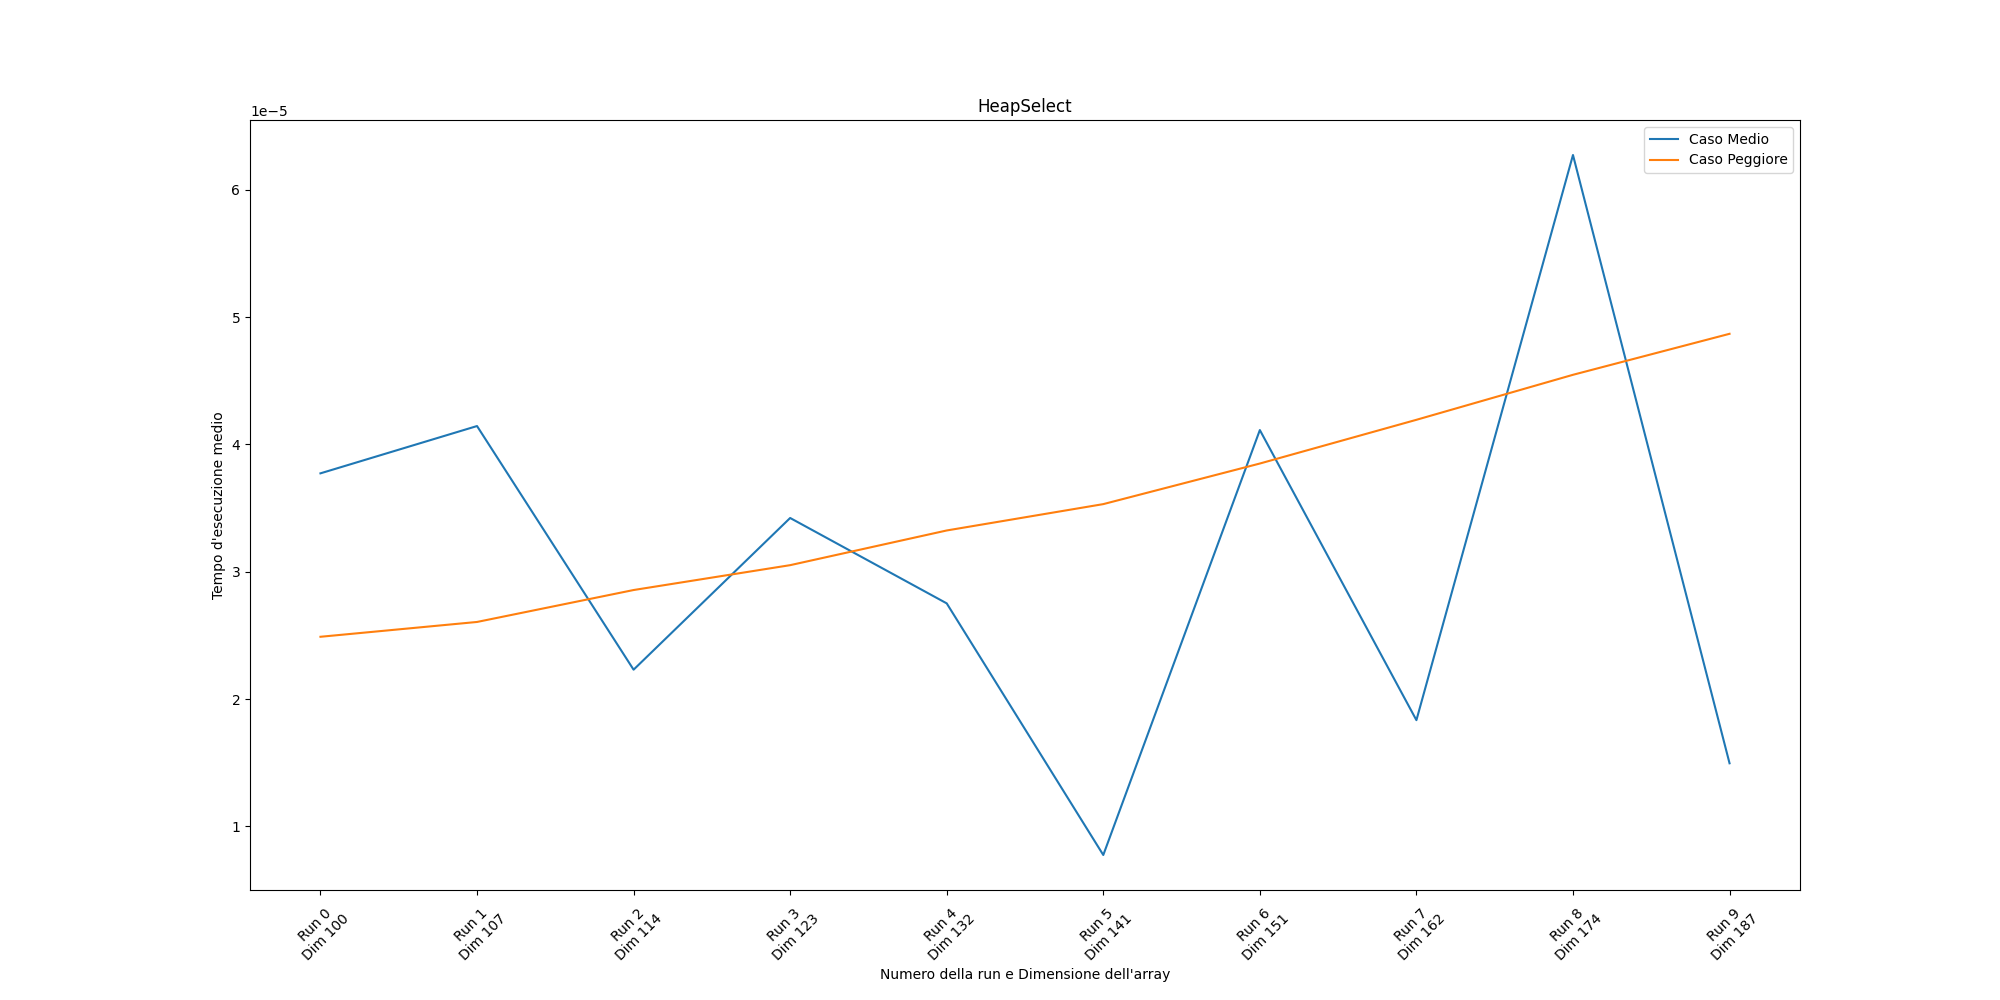
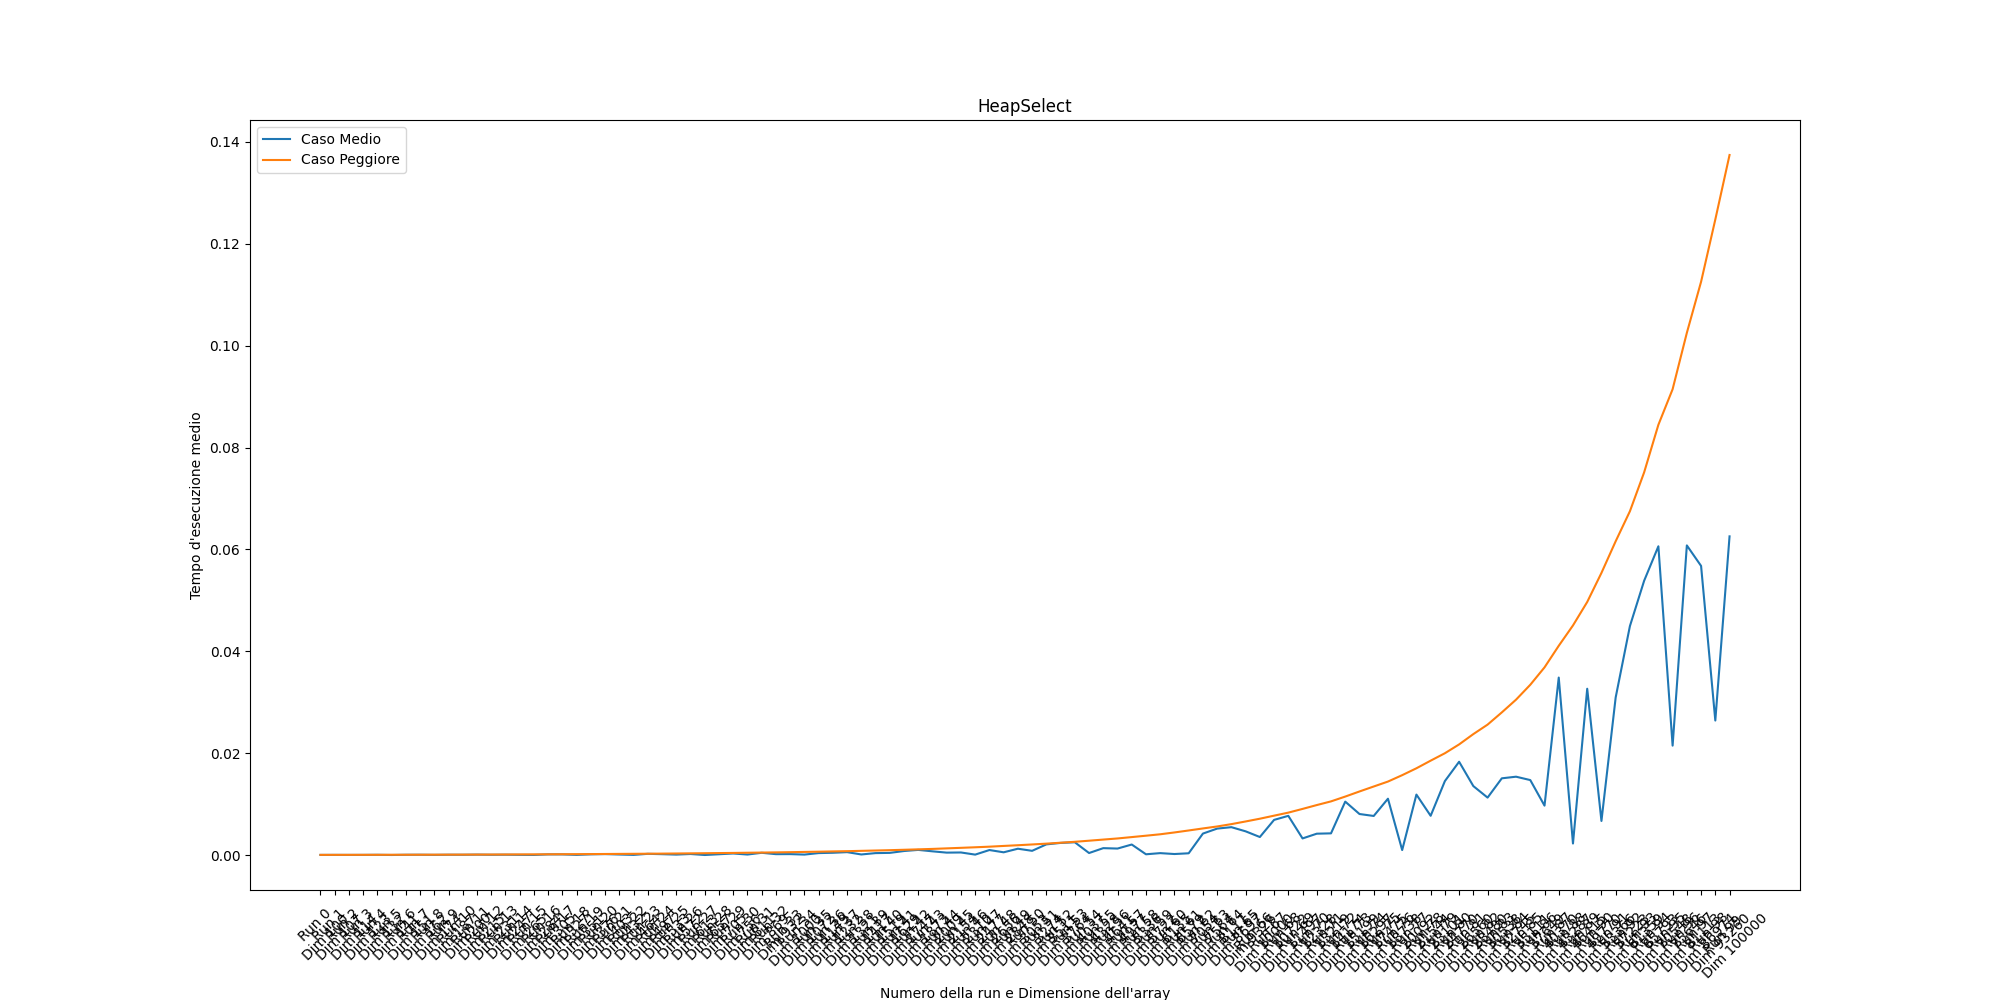
Grafici

diff --git a/src/AETA.py b/src/AETA.py
@@ -51,22 +51,33 @@ def main():
         }
         # Creo un dizionario per salvare i tempi medi d'esecuzione nei casi medi o peggiori
         tempi_medi = {name: {'medio': [], 'peggiore': [], 'dimensioni': []} for name in algoritmi.keys()}
-
-        for i in range(10): # Numero di run
-            print("RUN NUMERO:" + str(i))
+        for i in range(100): # Numero di run
+            print("TEST NUMERO:" + str(i))
             n = ArrayGenerator.SizeGen(A, B, i) # Genero la grandezza dell'input
             arr = ArrayGenerator.ArrGen(n) # Genero l'array per il caso medio
             k = random.randrange(1, n) # Genero k per il caso medio
+            # k = n // 2
 
             for name, algorithm in algoritmi.items(): # Mando in esecuzione ciascun algoritmo, con parametri d'input per il caso medio e peggiore, memorizzando i tempi
+                print("K caso Medio " + str(k))
 
+                print("Inizio misurazione caso medio di " + name)
                 tempo_medio = measure(arr, k, MinTime, algorithm) # Misuro il tempo medio d'esecuzione del caso medio
+                print("Fine misurazione caso medio di " + name)
+
                 tempi_medi[name]['medio'].append(tempo_medio) # Salvo il tempo medio nel dizionario
                 tempi_medi[name]['dimensioni'].append(n) # Salvo la dimensione dell'array durante questa run.
+
                 print(f"CASO MEDIO con: {name}, Dimensione dell'input: {n}, Tempo medio di exec: {tempo_medio:.6f} secondi") # Printo in console i dati
 
-                k_caso_peggiore, array_caso_peggiore = ArrayGenerator.GeneraCasiPeggiori(n, name) # Genero array e k per il caso peggiore
+
+                k_caso_peggiore, array_caso_peggiore = ArrayGenerator.GeneraCasiPeggiori(arr, k, n, name) # Genero array e k per il caso peggiore
+                print("K caso Peggiore " + str(k_caso_peggiore))
+
+                print("Inizio misurazione caso peggiore di " + name)
                 tempo_medio_caso_peggiore = measure(array_caso_peggiore, k_caso_peggiore, MinTime, algorithm) # Misuro il temo medio d'esecuzione del caso peggiore
+                print("Fine misurazione caso peggiore di " + name)
+
                 tempi_medi[name]['peggiore'].append(tempo_medio_caso_peggiore) # Salvo il tempo medio nel dizionario
 
                 print(f"CASO PEGGIORE: {name}, Dimensione dell'input: {n}, Tempo medio di exec: {tempo_medio_caso_peggiore:.6f} secondi") # Printo in console i dati

diff --git a/src/Support/ArrayGenerator.py b/src/Support/ArrayGenerator.py
@@ -5,31 +5,43 @@
 # i = 99 -> n = 100000
 import random
 
-'''
-Precondizione:
-- 100 <= n <= 100000
-'''
-
 # Genero un array di n elementi, con valore randomico
 def ArrGen(n):
+    print("Genero array generico per caso medio...")
     arr = [0] * n
-    for i in range(0, n-1):
-        arr[i] = random.randint(0, 1000000)
+    for i in range(n):
+        arr[i] = random.randint(1, 1000001)
+    print("Fine generazione array generico.")
     return arr
 
 # Genero un array e un valore di k, a seconda del tipo di algoritmo su cui vogliamo eseguirli, per garantire il caso peggiore
-def GeneraCasiPeggiori(n, name):
-    if (name == 'QuickSelect'): 
-        arr = ArrGen(n)
-        k = n // 2
-    elif (name == 'HeapSelect'):
-        arr = ArrGen(n)
+def GeneraCasiPeggiori(arr, k, n, name):
+    if (name == 'QuickSelect'): # Caso peggiore di QuickSelect, array ordinato in ordine decrescente
+        print("Genero caso peggiore per QuickSelect...")
         arr.sort(reverse=True)
-        k = n // 2
-    elif (name == 'Median of Medians'):
-        arr = [i for i in range(n//4) for _ in range(4)]
-        k = n // 2
+        print("Fine generazione array per QuickSelect.")
 
+    elif (name == 'HeapSelect'): # Il caso peggiore per heapselect e' un array alternato di valori minori e maggiori
+        print("Genero caso peggiore per HeapSelect...")
+        arr = []
+        valori_minori = random.sample(range(1, 500001), n // 2)
+        valori_maggiori = random.sample(range(500001, 1000001), n // 2)
+        if n % 2 != 0:
+            valori_minori.append(random.randint(1, 500000))
+        
+        for i in range(n):
+            if i % 2 == 0:
+                arr.append(valori_minori.pop())
+            else:
+                arr.append(valori_maggiori.pop())
+        k = n
+        print("Fine generazione array per HeapSelect.")
+
+    elif (name == 'Median of Medians'): # Il caso peggiore di Median e' un array di valori ripetuti.
+        print("Genero caso peggiore per Median of Medians Select...")
+        arr = [i for i in range(n//2) for _ in range(2)]
+        k = n // 2
+        print("Fine generazione array per Median of medians select.")
     return k, arr
     
 # Genero la dimensione secondo A*B^i. Il valore di i va da 0 a 99 in modo incrementale
